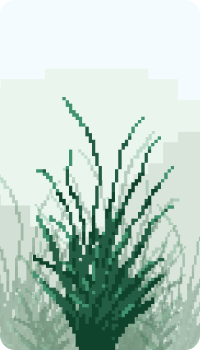
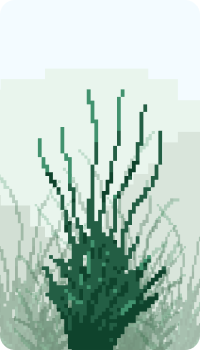
fixed item status bug, updated builder dialog since it skips the opener, updated rye pic

Changed region(s): [[0.15, 0.2571, 0.87, 1.0], [0.54, 0.9429, 0.63, 1.0]]

diff --git a/capstone/project/script.js b/capstone/project/script.js
@@ -170,7 +170,7 @@ import kaboom from "https://unpkg.com/kaboom/dist/kaboom.mjs";
 	});
 
 	// character speed
-	const speed = 400;
+	const speed = 900;
 
 	// creating levels and loading sprites into levels
 	const levelSelect = [
@@ -699,7 +699,7 @@ import kaboom from "https://unpkg.com/kaboom/dist/kaboom.mjs";
 
 		// custom collide for builder to ensure their quest is done last
 		player.onCollideUpdate('builder', () => {
-			if (weaver.requestComplete === false) {
+			if (fisher.requestComplete === false) {
 					addText('I’m a bit busy right now, you can help the other villagers first.')
 			} else {
 				addText(dialogueShow(globalDataNpc, "builder", builder.dialog));
@@ -710,7 +710,10 @@ import kaboom from "https://unpkg.com/kaboom/dist/kaboom.mjs";
 					} else if (builder.dialog === 2 ) {
 						builder.dialog = 3;
 					} else if (builder.dialog === 0) {
-						builder.dialog = 1;
+
+						wait(15, () => {
+							builder.dialog = 1;
+						})
 					} else {
 						return builder.dialog;
 					}
@@ -754,23 +757,6 @@ import kaboom from "https://unpkg.com/kaboom/dist/kaboom.mjs";
 			return textboxColor;	
 		};
 
-		// function dialogSpeedUp (spriteNAme) {
-		// 	if (isKeyPressed("space")) {
-		// 		if (npcs[npcNum].dialog === 1 && npcs[npcNum].requestComplete === true) {
-		// 			npcs[npcNum].dialog = 2;
-		// 		} else if (npcs[npcNum].dialog === 2 ) {
-		// 			npcs[npcNum].dialog = 3;
-		// 		} else if (npcs[npcNum].dialog === 0) {
-		// 			npcs[npcNum].dialog = 1;
-		// 		} else {
-		// 			return npcs[npcNum].dialog;
-		// 		}
-		// 	} else {
-		// 		wait(8, () => {
-		// 			npcCollide(npcs[npcNum]);
-		// 		})
-		// 	}
-		// }
 		
 		function itemCollection (data, itemName, spriteIndex, spriteName) {
 			const dataPoints = Object.keys(data);
@@ -787,10 +773,10 @@ import kaboom from "https://unpkg.com/kaboom/dist/kaboom.mjs";
 			// pauses on gatherer and weaver quest completion to account for time to read fisher's dialog			
 			if (spriteName === fisher) {
 				wait(15, () => {
-					shells.collected = true;
+					shells.collectionIdx = 1;
 					gatherer.requestComplete = true;
 
-					rye.collected = true;
+					rye.collectionIdx = 1;
 					weaver.requestComplete = true;
 				})
 				
@@ -938,6 +924,7 @@ import kaboom from "https://unpkg.com/kaboom/dist/kaboom.mjs";
 
 		function updateInterface(item, data) {
 
+			// calling index of item status in json file
 			let itemNum = itemString.indexOf(item);
 
 			document.querySelector('#itemName').innerHTML = `${data[item].item}`;
@@ -946,6 +933,7 @@ import kaboom from "https://unpkg.com/kaboom/dist/kaboom.mjs";
 
 			document.querySelector('#status').innerHTML = `${data[item].itemStatus[items[itemNum].collectionIdx]}`;
 
+			// changes color of item status
 			if (items[itemNum].collectionIdx == 1) {
 				document.querySelector('#status').style.color = 'green';
 			} else {
